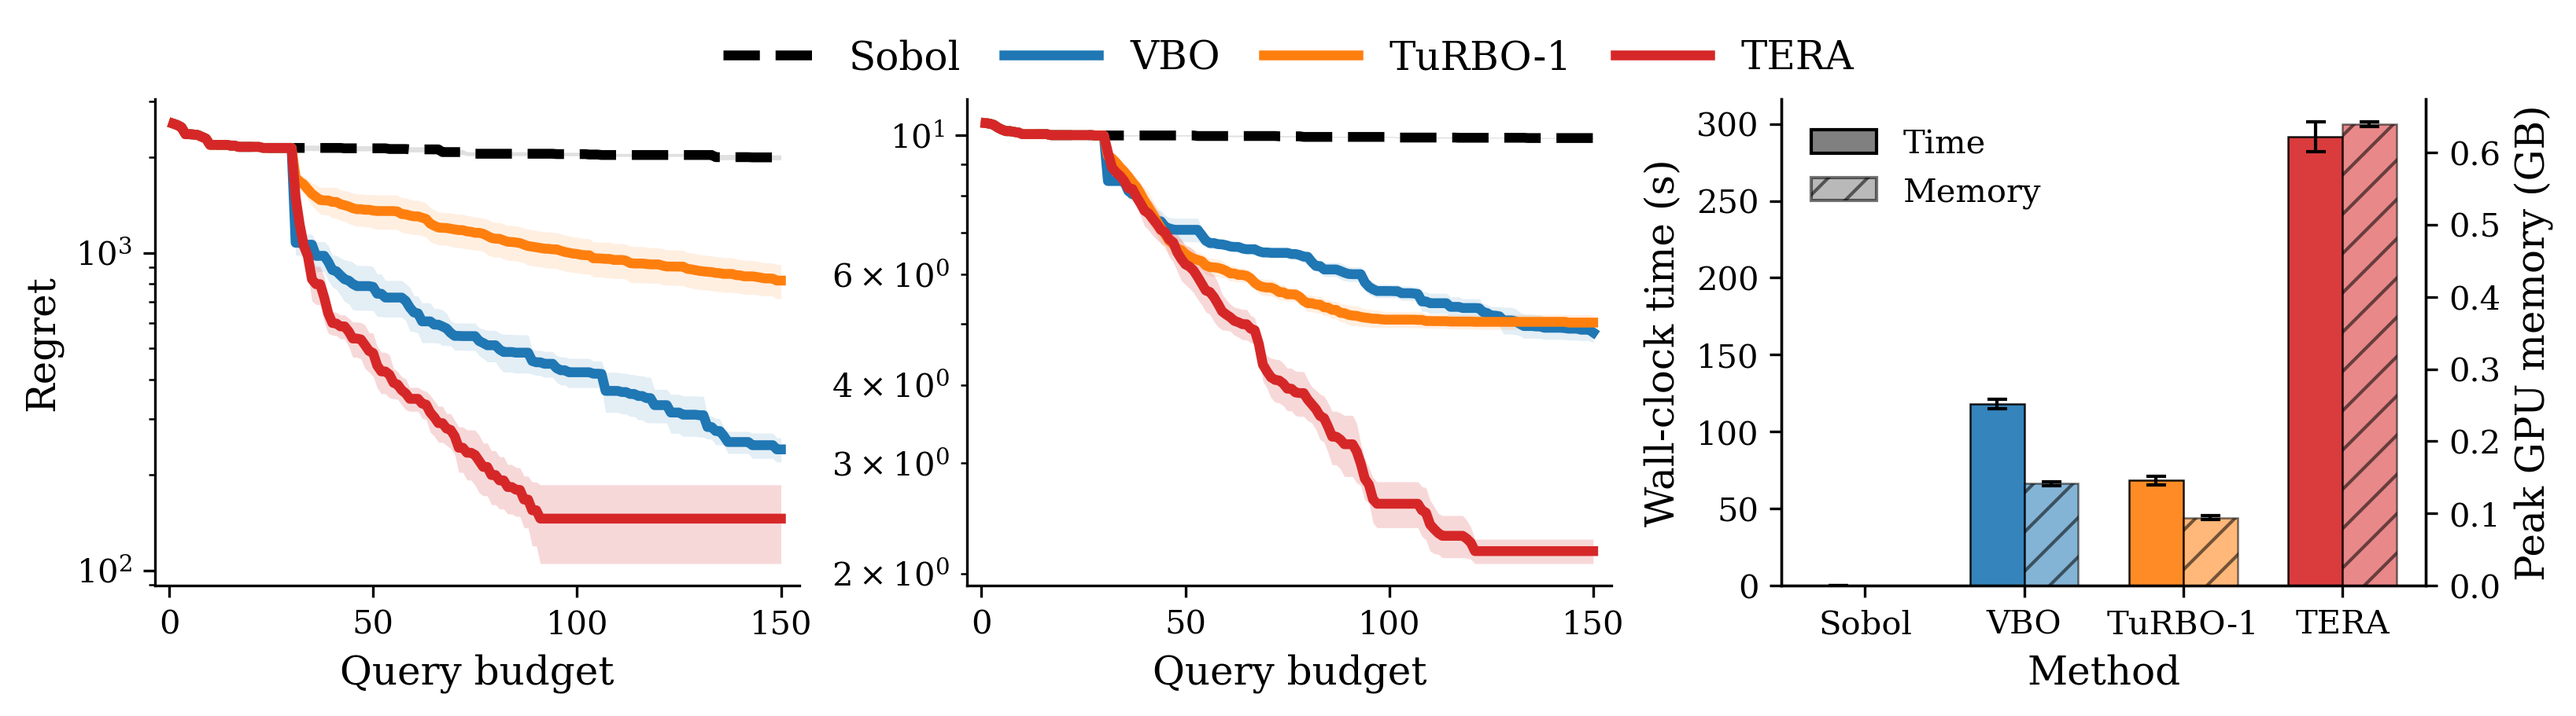
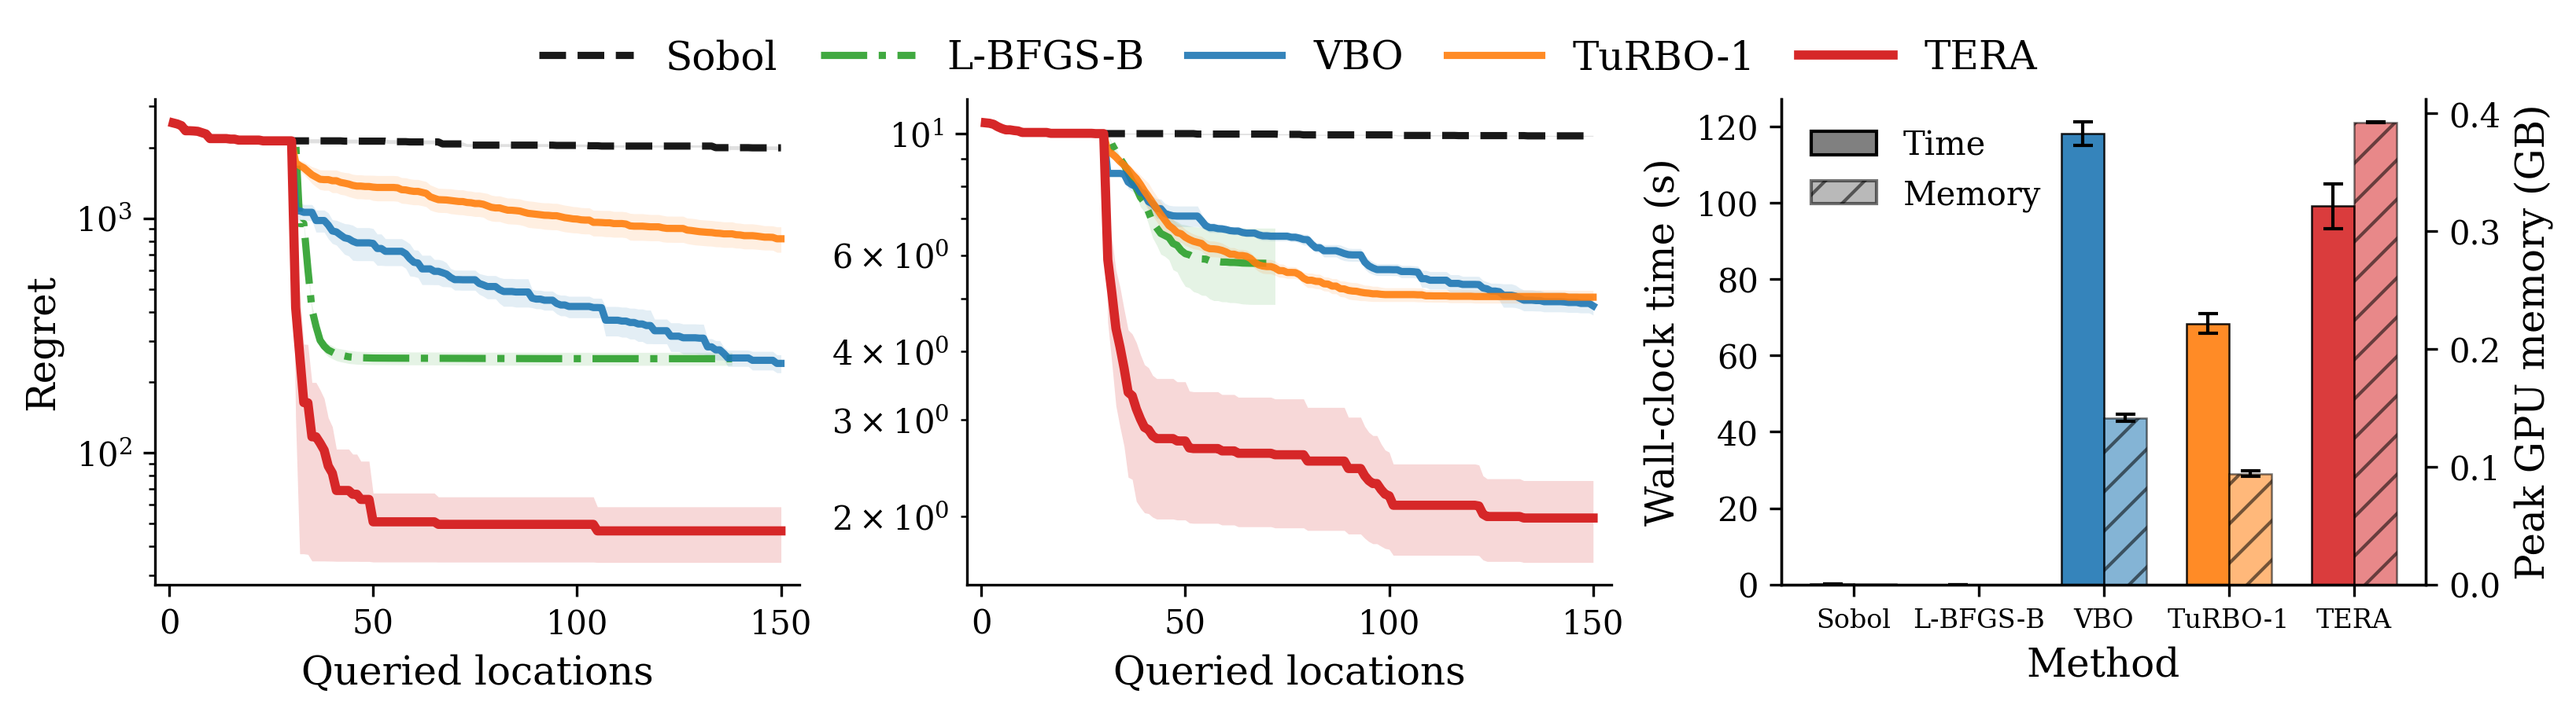
minor fix

diff --git a/README.md b/README.md
@@ -2,14 +2,13 @@
 
 > Accepted at **the Conference on Neural Information Processing Systems (NeurIPS 2026)**, December 2026. 
 
-This repository provides the official implementation of **TERA**, a scalable derivative Gaussian process method for 
-scalar function-value prediction with observed input gradients. For each target and its Vecchia conditioning set, 
-TERA replaces the full gradient by target-specific reduced directional derivatives. For stationary kernels, this 
-reduction preserves the corresponding full-gradient conditional density exactly, while avoiding the dense derivative 
-covariance over all gradient coordinates.
-
-TERA training and prediction use batched reduced conditional systems.
-Method names in commands, results, and plot legends are lowercase; existing result labels remain supported.
+This repository provides the official implementation of **TERA**, 
+a scalable Gaussian process method for prediction and Bayesian 
+optimization with gradients. TERA combines target-specific gradient 
+reduction with a Vecchia approximation to handle high-dimensional 
+inputs and large datasets. Under the assumptions described in the paper, 
+the reduction preserves the corresponding full-gradient conditional 
+distribution while substantially reducing computational and memory costs.
 
 The code reproduces the experiments for:
 
@@ -20,8 +19,6 @@ The code reproduces the experiments for:
 ---
 
 ## Main Results
-
-The figures below show the original submission results; camera-ready experiments are being rerun.
 
 ### Posterior Fidelity and Scaling
 
@@ -34,11 +31,10 @@ wall-clock time, and peak GPU memory.
 
 ### Large-Scale GP Regression
 
-![Large-scale scalar energy prediction on MD22](figures/md22_main_metrics_rbf.png)
+![Large-scale scalar energy prediction on MD22](figures/md22_main_rbf.png)
 
-**Figure 2:** Large-scale scalar energy prediction on MD22. Panels show raw energy test RMSE per atom after conversion 
-to physical units, end-to-end wall-clock time, and peak GPU memory. All methods use isotropic squared exponential kernels 
-and identical train and test splits. Lower values are better in all panels.
+**Figure 2:** Large-scale molecular energy prediction on MD22. Panels show test RMSE, wall-clock time, and peak GPU memory. 
+All methods use isotropic SE kernels and identical train and test splits. Lower values are better in all panels.
 
 ### High-Dimensional Bayesian Optimization
 
@@ -52,27 +48,25 @@ The right panel reports wall-clock time and peak GPU memory on `Ackley-200D`.
 
 ## Installation
 
-The commands below run local source files directly; installing console commands is not required.
-
 Use Python 3.10 or newer. A CUDA-enabled PyTorch installation is recommended for the main experiments.
 
 ```bash
 python -m venv tera
 source tera/bin/activate
-pip install -e '.[md22,bo]'
+pip install -e .
 ```
 ---
 
 ## Experiments
 
-Each experiment has a default config for the camera-ready experiments and a dedicated reproduction guide with run commands.
+Each experiment has a default config and a reproduction guide with run commands.
 
 
-| Experiment                        | Run command                            | Default config                           | Documentation |
-|:----------------------------------|:--------------------------------------|:-----------------------------------------|:--|
-| Posterior fidelity and scaling    | `python scripts/run_gp_sim_kl_subprocess.py` | `configs/gp_sim/matern52_*.yaml`      | `docs/gp_simulation.md` |
-| Large-scale GP regression on MD22 | `python scripts/run_md22.py`   | `configs/md22/main.yaml` | `docs/md22_regression.md` |
-| High-dimensional BO               | `python scripts/run_bo_synthetic.py`         | `configs/bo/main.yaml`      | `docs/bo_synthetic.md` |
+| Experiment                     | Run command                                  | Default config                   | Documentation |
+|:-------------------------------|:---------------------------------------------|:---------------------------------|:--|
+| Posterior fidelity and scaling | `python scripts/run_gp_sim_kl_subprocess.py` | `configs/gp_sim/matern52_*.yaml` | `docs/gp_simulation.md` |
+| GP regression on MD22          | `python scripts/run_md22.py`                 | `configs/md22/main.yaml`         | `docs/md22_regression.md` |
+| High-dimensional BO            | `python scripts/run_bo_synthetic.py`         | `configs/bo/main.yaml`           | `docs/bo_synthetic.md` |
 
 ---
 
